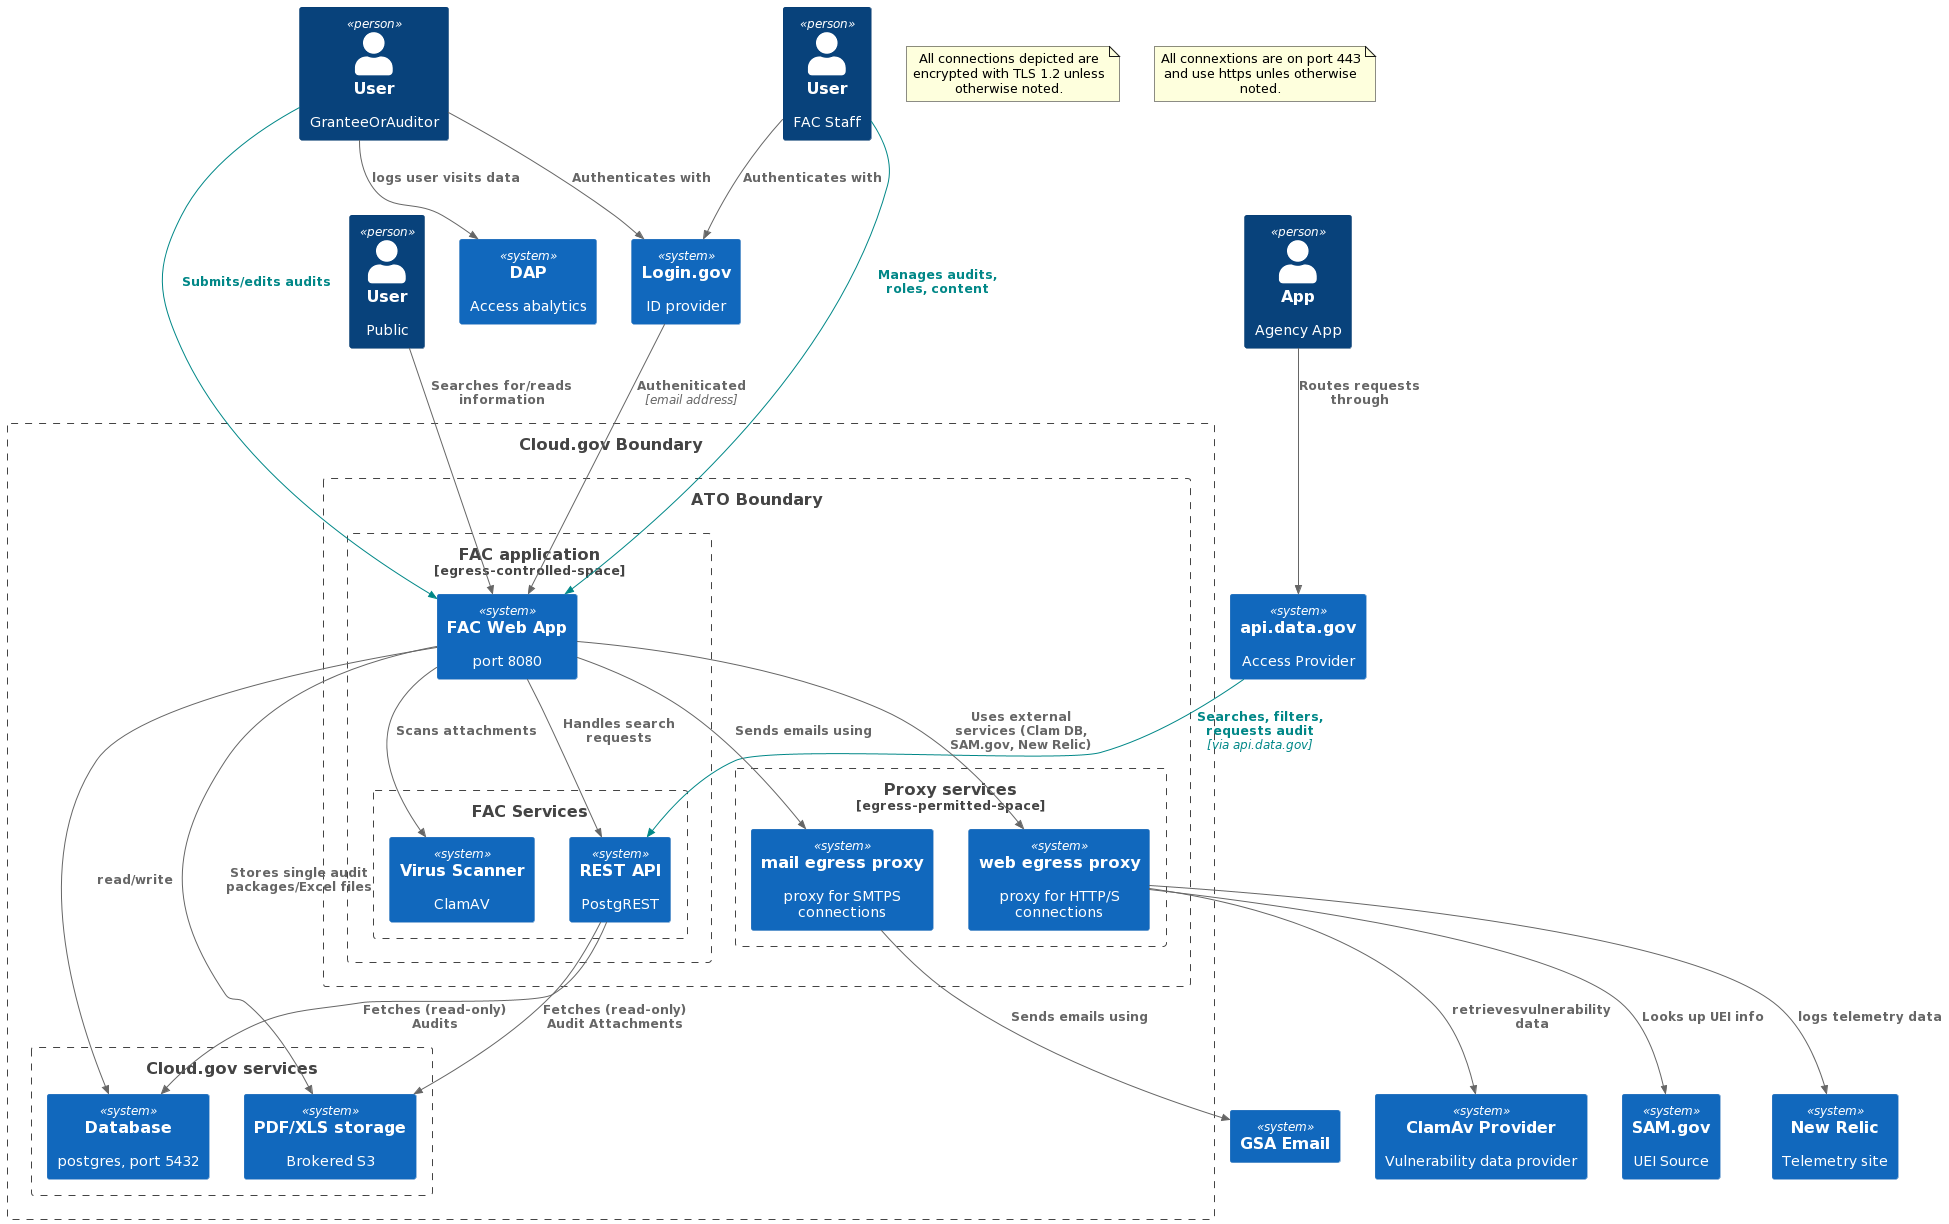
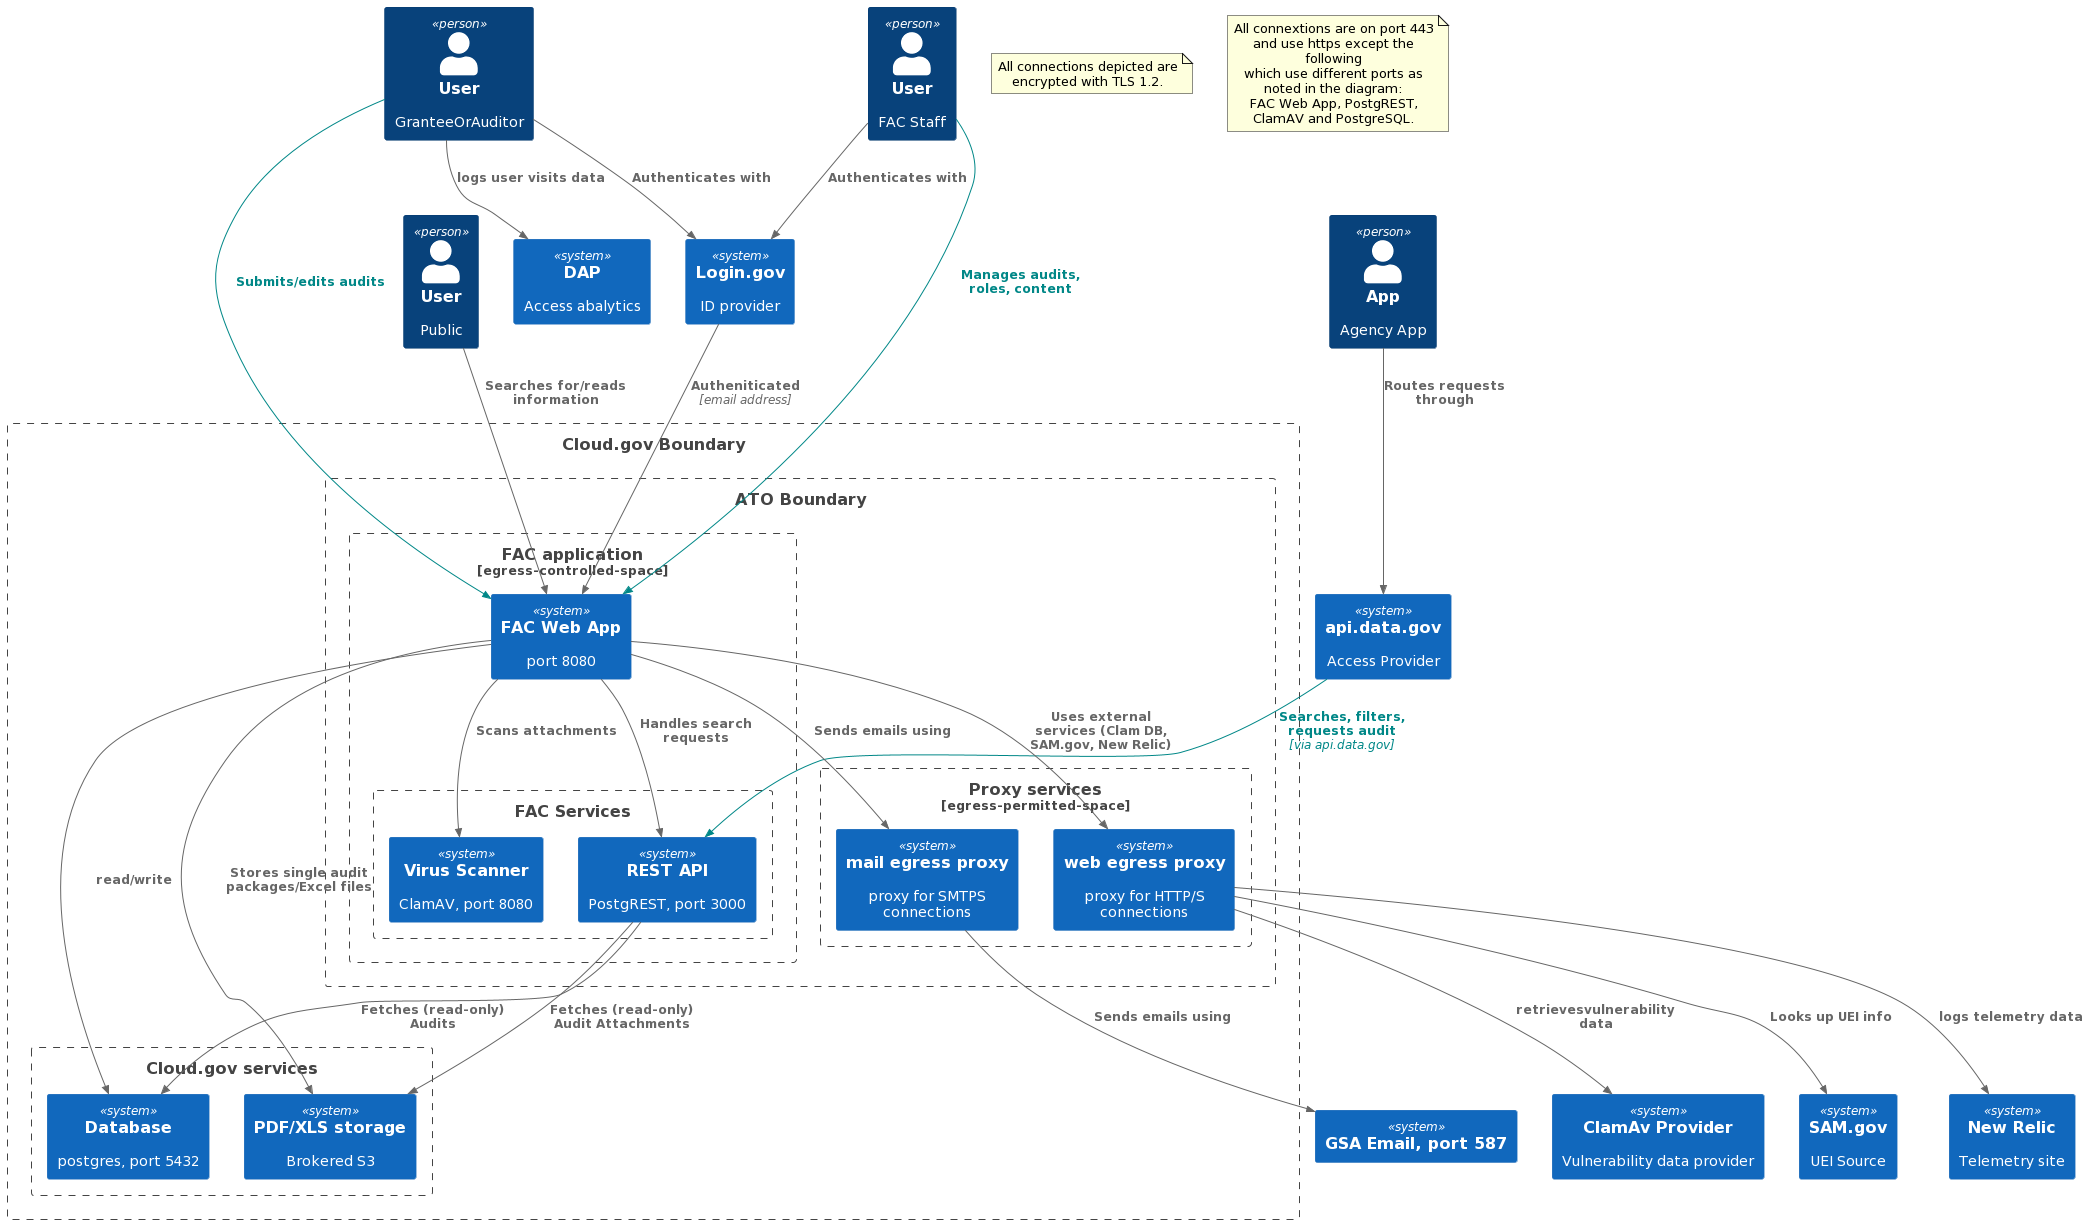
Update non-443 ports

diff --git a/docs/architecture/diagrams/Application/fac_system_context_unified.md b/docs/architecture/diagrams/Application/fac_system_context_unified.md
@@ -10,10 +10,12 @@ Person(Staff, "User", "FAC Staff")
 Person(AgencyApp, "App", "Agency App")
 
 note as EncryptionNote
-All connections depicted are encrypted with TLS 1.2 unless otherwise noted. 
+All connections depicted are encrypted with TLS 1.2. 
 end note
 note as PortsNote
-All connextions are on port 443 and use https unles otherwise noted.
+All connextions are on port 443 and use https except the following
+which use different ports as noted in the diagram:
+FAC Web App, PostgREST, ClamAV and PostgreSQL.
 end note
 
 
@@ -22,8 +24,8 @@ Boundary(cloudgov, "Cloud.gov Boundary") {
         Boundary(backend, "FAC application", "egress-controlled-space") {
             System(django, "FAC Web App", "port 8080") 
             Boundary(services, "FAC Services") {
-                System(api, "REST API", "PostgREST")
-                System(scan, "Virus Scanner", "ClamAV")
+                System(api, "REST API", "PostgREST, port 3000")
+                System(scan, "Virus Scanner", "ClamAV, port 8080")
             }
         }
         Boundary(proxy, "Proxy services", "egress-permitted-space"){
@@ -40,7 +42,7 @@ Boundary(cloudgov, "Cloud.gov Boundary") {
     System(Login, "Login.gov", "ID provider")
     System(datagov, "api.data.gov", "Access Provider")
     System(samgov, "SAM.gov", "UEI Source")
-    System(Email, "GSA Email")
+    System(Email, "GSA Email, port 587")
     System(relic, "New Relic", "Telemetry site")
     System(dap, "DAP", "Access abalytics")
     System(clamav, "ClamAv Provider", "Vulnerability data provider")
